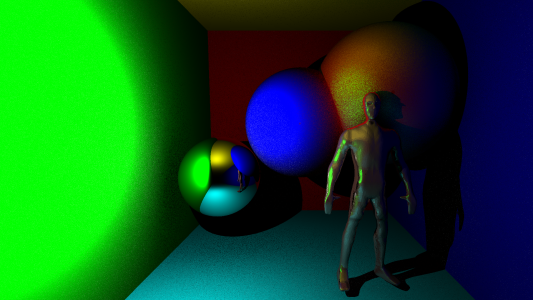
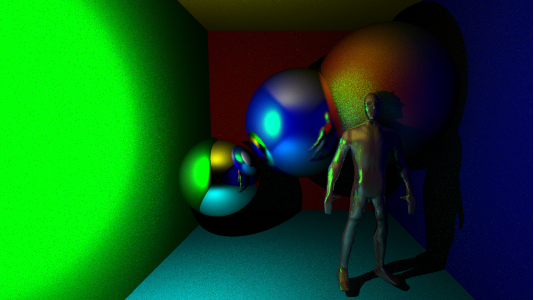
Title image

diff --git a/src/Scene.cpp b/src/Scene.cpp
@@ -186,22 +186,32 @@ vector<Ray> Scene::SceneTraceBundle(vector<Ray> rays){
 		Vec3 toLight = light - col.position;
 		Ray shadeRay(col.position + toLight.norm()*0.001,toLight.norm());
 		SceneCollision shadeCol = this->intersect(shadeRay,-1);
-		float intensity;
-		if(shadeCol.distance<toLight.length())
-			intensity = 0;
-		else
-			intensity = lightPower * (-1*toLight.norm()*n)/(toLight.length()*toLight.length());
-		//Otherwise it's given a color with intensity according to the dot product scaled by distance to the light.
-		Vec3 color;
-		color = intensity * primitives[col.hitIndex]->getColor();
-
+		float intensityDiff;
+		float intensitySpec;
 
 		//Reflected color based on specularity that controls
 		//how fussy or sharp the cone of reflected rays are
 		float specular  = primitives[col.hitIndex]->getSpecular();
 		float roughness = primitives[col.hitIndex]->getRoughness();
 
+		if(shadeCol.distance<toLight.length()){
+			intensityDiff = 0;
+			intensitySpec = 0;
+		}
+		else{
+			float dot = (-1*toLight.norm()*n) > 0 ? (-1*toLight.norm()*n) : 0;
+
+			intensityDiff = lightPower * dot/(toLight.length()*toLight.length());
+			intensitySpec = lightPower * pow(dot,specular*8)/(toLight.length()*toLight.length());
+		}
+		//Otherwise it's given a color with intensity according to the dot product scaled by distance to the light.
+		Vec3 color;
+		color = intensityDiff * primitives[col.hitIndex]->getColor(); //+ intensitySpec * primitives[col.hitIndex]->getColor();
+
+
 		Quat R = rotateFromTo(Vec3(0,0,1),r);
+
+		float fallOff = (col.distance+1)*(col.distance+1);
 
 		//Set up new reflected rays
 		for(int ndx=0; ndx<5; ndx++){
@@ -330,7 +340,7 @@ void Scene::renderPart(int ya, int yb, int xa, int xb, Plot* plot, bool** done, 
 			vector<Ray> raysIn;
 			raysIn.push_back(rayIn);
 
-			for(int bdx=0; bdx<2; bdx++){
+			for(int bdx=0; bdx<3; bdx++){
 				raysIn = SceneTraceBundle(raysIn);
 			}
 

diff --git a/main.cpp b/main.cpp
@@ -21,7 +21,7 @@ using namespace std::chrono;
 
 int main() {
 	//Benchmark size /8
-	//Plot plot(1920,1080);
+	Plot plot(1920,1080);
 
 	//4,4 with 16
 	//23410
@@ -50,7 +50,7 @@ int main() {
 
 
 	//Plot plot(534,300);
-	Plot plot(1280,720);
+	//Plot plot(1280,720);
 	
 
 	Scene testscene;
@@ -59,7 +59,8 @@ int main() {
 
 	Sphere ball1(Vec3(0 ,0,0),2);	
 	ball1.setColor(Vec3(0,0,1.0));
-	ball1.setSpecular(0.0);	
+	ball1.setSpecular(0.5);	
+	ball1.setRoughness(0.95);	
 
 	Sphere ball2(Vec3(3 ,1,0),2.5);
 	ball2.setColor(Vec3(1.0,0,0));
